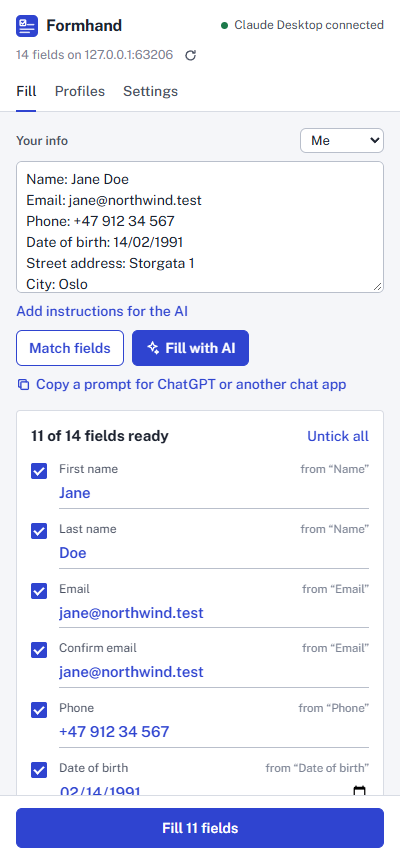
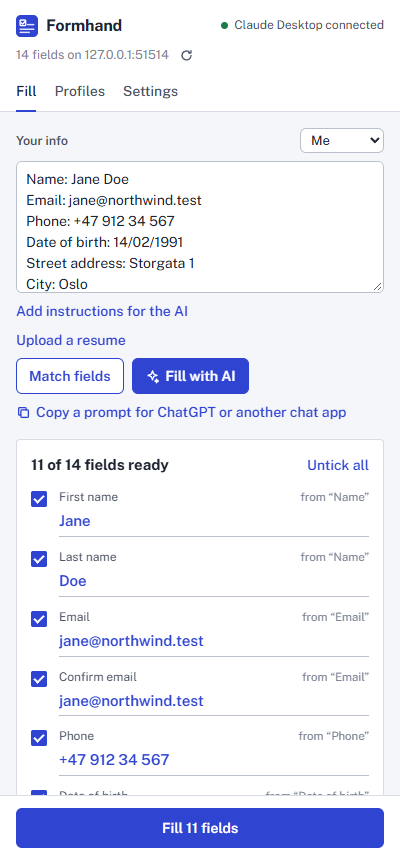
docs: resumes, remembered answers, privacy, tests and limits

Changed region(s): [[0.03, 0.3628, 0.96, 0.9372], [0.36, 0.0605, 0.42, 0.0907], [0.45, 0.0605, 0.48, 0.0907]]

diff --git a/README.md b/README.md
@@ -15,7 +15,8 @@ A browser extension that fills in web forms for you, from text you paste, from t
 - **Your AI app over MCP.** Claude Desktop, Claude Code, Cursor, VS Code and other MCP apps get three tools: `get_form`, `fill_form` and `undo_fill`. You say "fill the form in my browser with my details from cv.pdf" in the app, and the form in your active tab fills in, on that app's subscription with no API key.
 - **You stay in charge.** Every route except MCP shows a preview first, laid out like a filled-in paper form. You can edit any value or untick it. Filled fields are outlined on the page, and each fill can be undone. Formhand never submits a form.
 - **Some fields are never read:** passwords, card numbers, CVCs, one-time codes, and invisible "honeypot" fields that sites use to catch bots.
-- **Profiles** keep the details you use often ("Me", "Work") so you don't paste them every time.
+- **Profiles from your resume.** Pick a PDF, Word (.docx) or text resume. Formhand reads it in the browser, and your AI provider picks out your name, contact details, links and current job once. The profile keeps those as `Label: value` lines, which Match fields can use without AI, followed by the whole resume, so Fill with AI can answer open questions from it. Claude can also read a scanned PDF. You can still write profiles by hand ("Me", "Work").
+- **Remembers your answers.** After a fill, the answers your info didn't already have are kept and used on later forms, by Match fields and by the AI. Examples are a value you typed into the preview, or a notice period the AI worked out. Your info wins when the two differ, consent boxes are never kept, and undoing a fill takes its answers back out. You can see, forget or switch this off on the Profiles tab.
 
 <p>
   <img src="docs/panel-settings.png" width="280" alt="Settings: AI provider, model and key, the MCP pairing code with 'Connected to Claude Desktop', and what leaves your computer" />
@@ -38,8 +39,12 @@ A browser extension that fills in web forms for you, from text you paste, from t
 1. **Reading the form.** The content script walks the page, including open shadow roots. It lists each visible input, select and textarea with its label, worked out in this order: `aria-labelledby`, then `<label>`, `aria-label`, `title`, the text just before the field, and the table cell beside it. It also records the field's section (fieldset legend or heading), options, current value and limits. Radio buttons sharing a name become one field with options. Each field gets an id (`f1`, `f2`, ...) that stays the same across re-reads of the page.
 2. **Matching without AI** ([match.ts](packages/core/src/match.ts)). Each pasted key and each field is mapped to a concept such as `given-name`, `email` or `postal-code`, using the HTML autocomplete vocabulary plus synonyms ("surname", "zip", "mobile"). In "Company email" the last noun wins, so it maps to email. Keys and fields are then scored on concept and word overlap. Values that can't fit are penalised: "Jane" won't go into an email box, and "Mars" won't go into a country list. Each field is filled at most once, best score first. A full name is split over first and last name fields (and the reverse), "Confirm email" reuses the email, "USA" picks "United States", and "14/02/1991" becomes `1991-02-14`.
 3. **Asking an AI** ([prompt.ts](packages/core/src/prompt.ts)). One prompt is shared by the API route and the chat route. The model gets a compact JSON line per field and must answer `{"fills":[{"id","value"}],"notes"}`. Claude is called through the official SDK with a JSON-schema reply, low effort and Anthropic's default refusal fallback. Other providers get a JSON-schema `response_format`, and Formhand retries without it on servers that don't support one. The prompt tells the model that page text is data, not instructions, and never to invent personal details.
-4. **Filling** ([fill.ts](packages/extension/src/lib/dom/fill.ts)). Values are set through the element prototype's native setter, followed by `input` and `change` events. That is what makes React, Vue and similar libraries register the change. A unit test fills a real React form and checks its state, and the end-to-end tests do the same in Chromium and Firefox. Checkboxes and radios are clicked. If the browser rejects a value, as with "lots" in a number field, the old value goes back and the reason is reported.
-5. **The MCP bridge** ([bridge.ts](packages/mcp/src/bridge.ts), [bridge-client.ts](packages/extension/src/lib/bridge-client.ts)). Your AI app starts `formhand-mcp` as a stdio MCP server. The helper also listens on `127.0.0.1`, using the first free port from 17345 to 17349, so several AI apps can run at once. The extension's background script connects to every helper it finds.
+4. **Resumes and remembered answers** ([resume.ts](packages/extension/src/lib/resume.ts), [memory.ts](packages/core/src/memory.ts)).
+   - **Reading a resume:** PDFs are read with Mozilla's pdf.js, loaded only when you pick one, and Word files by unzipping `word/document.xml`. The text goes to your provider once, with its own prompt and JSON schema, to pick out the facts forms ask for. A PDF with no text layer goes to Claude as the file itself; other providers can't read scans.
+   - **What is remembered:** only answers that didn't come straight from your info: values you edited in the preview, AI and chat-app answers, and remembered answers used again (their date is refreshed). Long answers over 500 characters (cover letters) and consent boxes are skipped. A newer answer to the same question replaces the older one, and at most 200 are kept.
+   - **How they are used:** Match fields uses remembered answers only for fields your info left empty. The AI gets them as a separate block after your info, marked as earlier answers that your info overrides, and as data from other websites.
+5. **Filling** ([fill.ts](packages/extension/src/lib/dom/fill.ts)). Values are set through the element prototype's native setter, followed by `input` and `change` events. That is what makes React, Vue and similar libraries register the change. A unit test fills a real React form and checks its state, and the end-to-end tests do the same in Chromium and Firefox. Checkboxes and radios are clicked. If the browser rejects a value, as with "lots" in a number field, the old value goes back and the reason is reported.
+6. **The MCP bridge** ([bridge.ts](packages/mcp/src/bridge.ts), [bridge-client.ts](packages/extension/src/lib/bridge-client.ts)). Your AI app starts `formhand-mcp` as a stdio MCP server. The helper also listens on `127.0.0.1`, using the first free port from 17345 to 17349, so several AI apps can run at once. The extension's background script connects to every helper it finds.
    - **Security:** web pages are refused at the handshake by their Origin header, and the first message must carry the pairing code, which is compared in constant time.
    - **Keeping Chrome awake:** pings keep Chrome's service worker alive while a helper is connected, and an alarm looks for new helpers every 30 seconds.
    - **More than one browser:** requests go to the browser you focused last.
@@ -48,7 +53,7 @@ A browser extension that fills in web forms for you, from text you paste, from t
 
 | Package | What's in it |
 | --- | --- |
-| [`packages/core`](packages/core/src) | Pure TypeScript shared by the other two: field types, paste parsing, concept matching, option and date normalization, the AI prompt and reply format, and the bridge protocol. No DOM, no browser APIs. |
+| [`packages/core`](packages/core/src) | Pure TypeScript shared by the other two: field types, paste parsing, concept matching, option and date normalization, the AI prompts and reply formats (fills and resumes), remembered answers, and the bridge protocol. No DOM, no browser APIs. |
 | [`packages/extension`](packages/extension/src) | The WXT extension. `entrypoints/content.ts` reads and fills pages, through [`lib/dom/`](packages/extension/src/lib/dom). `entrypoints/background.ts` runs the bridge client and opens the panel. `entrypoints/sidepanel` holds the React UI in [`ui/`](packages/extension/src/ui), and [`lib/ai/`](packages/extension/src/lib/ai) holds the providers. |
 | [`packages/mcp`](packages/mcp/src) | The local helper: the MCP server and its tools ([server.ts](packages/mcp/src/server.ts)), the WebSocket bridge, the pairing code, and the `setup` command. |
 
@@ -68,21 +73,22 @@ Values are always strings. Selects and radios take an option label ("Norway"; al
 
 Formhand has no server, no account and no telemetry.
 
-- **Stays in your browser:** profiles, pasted text and API keys, in the extension's local storage.
-- **Fill with AI:** sends the page's field descriptions and your info to the provider you picked, and nothing else.
+- **Stays in your browser:** profiles, pasted text, remembered answers and API keys, in the extension's local storage.
+- **Fill with AI:** sends the page's field descriptions, your info and your remembered answers to the provider you picked, and nothing else.
+- **Resumes:** read in the browser. The text is sent once to your provider to pick out your details; a scanned PDF is sent as the file, to Claude only. The file itself isn't kept.
 - **MCP:** the helper only listens on `127.0.0.1` and only talks to the paired extension.
 - **Never read:** passwords, payment cards and one-time codes.
 
 ## Tests
 
 ```
-npm test                  # 134 unit tests: core 63, mcp 27, extension 44
-npm run test:e2e          # builds, then 9 Playwright tests against the real extension in Chromium
-npm run test:e2e:firefox  # builds for Firefox, then 11 tests in your installed Firefox
+npm test                  # 160 unit tests: core 78, mcp 27, extension 55
+npm run test:e2e          # builds, then 12 Playwright tests against the real extension in Chromium
+npm run test:e2e:firefox  # builds for Firefox, then 14 tests in your installed Firefox
 npm run typecheck
 ```
 
-- **Core:** paste formats, concept matching (including "Company email", "Name of company" and "First time here?"), name splitting and joining, aliases, dates, prompt shape.
+- **Core:** paste formats, concept matching (including "Company email", "Name of company" and "First time here?"), name splitting and joining, aliases, dates, prompt shape, which answers are remembered (and which never are), and reading the resume reply.
 - **MCP helper:**
   - Web origins are refused, and wrong or missing pairing codes are closed.
   - Requests and answers round-trip, including timeouts.
@@ -94,6 +100,7 @@ npm run typecheck
   - What is never listed (passwords, card fields, hidden fields).
   - Filling every control type, including a real React form, then undo.
   - The Claude request shape (structured output, fallback header, effort) and the OpenAI-compatible retry without a schema.
+  - Reading Word and text resumes, the resume request to each kind of provider, and a scanned PDF going only to Claude.
   - Provider error messages and the bridge client's reconnect and pairing behavior.
 - **End to end** ([e2e/](packages/extension/e2e)): loads the built extension into Chromium and fills a job application page through every route:
   - pasted text, with editing a value, unticking one, and undo;
@@ -102,8 +109,11 @@ npm run typecheck
   - a chat app reply;
   - the real `formhand-mcp` process started over stdio the way an AI app starts it;
   - a wrong pairing code;
-  - a second copy of the content script injected into an open tab, which must take over without filling twice.
-- **End to end in Firefox** ([e2e/firefox/](packages/extension/e2e/firefox)): Playwright can't load Firefox extensions, so these tests drive a real Firefox through geckodriver (Selenium), with Playwright only as the test runner. They run the same journeys, because Firefox differs where it matters: content scripts see the page through Xray wrappers, the background is a Manifest V2 page, and the clipboard and WebSocket paths are its own. The chat test pastes what Firefox really put on the clipboard. Two more tests click Formhand's button in the toolbar's Extensions menu to open and close the sidebar, and check the Alt+Shift+F shortcut. The panel is opened as a tab so the tests can read it; set `HEADED=1` to watch, or `FIREFOX_BIN` to pick a Firefox.
+  - a second copy of the content script injected into an open tab, which must take over without filling twice;
+  - a PDF resume read by pdf.js and turned into a profile that fills the form;
+  - an answer typed into the preview, filled again on a fresh copy of the form from memory, then forgotten;
+  - undoing a fill, which takes its answers back out.
+- **End to end in Firefox** ([e2e/firefox/](packages/extension/e2e/firefox)): Playwright can't load Firefox extensions, so these tests drive a real Firefox through geckodriver (Selenium), with Playwright only as the test runner. They run the same journeys, including the resume and remembered answers, because Firefox differs where it matters: content scripts see the page through Xray wrappers, the background is a Manifest V2 page, and the clipboard and WebSocket paths are its own. The chat test pastes what Firefox really put on the clipboard. Two more tests click Formhand's button in the toolbar's Extensions menu to open and close the sidebar, and check the Alt+Shift+F shortcut. The panel is opened as a tab so the tests can read it; set `HEADED=1` to watch, or `FIREFOX_BIN` to pick a Firefox.
 
 CI ([.github/workflows/ci.yml](.github/workflows/ci.yml)) runs the type check, the unit tests, builds for all three browsers, Mozilla's `web-ext lint` and the end-to-end tests in Chromium and Firefox.
 
@@ -111,10 +121,12 @@ CI ([.github/workflows/ci.yml](.github/workflows/ci.yml)) runs the type check, t
 
 - **Iframes aren't read.** Some embedded application forms (for example Greenhouse on a company site) live in a cross-origin iframe; open the form's own page instead.
 - **Custom widgets.** Native inputs, selects, radios and checkboxes fill reliably. Custom dropdowns built from `<div>`s (React Select, MUI Autocomplete), rich-text editors, multi-selects and file uploads are skipped or may not take the value.
-- **MCP fills without the side-panel preview.** The AI app says what it filled, the fields are outlined, and `undo_fill` or the panel's undo puts them back.
+- **MCP fills without the side-panel preview.** The AI app says what it filled, the fields are outlined, and `undo_fill` or the panel's undo puts them back. Because there is no preview to approve, MCP fills aren't remembered.
+- **Resumes:** old `.doc` files aren't read (save as .docx or PDF), only the first 20 pages of a PDF are, and scanned PDFs need Claude. Picking out details needs an AI provider; without one, the profile is the resume's text.
+- **Remembered answers stay in one browser.** They aren't synced, and an answer to "the same question" is matched by its wording, so differently worded questions are only connected by the AI.
 - **ChatGPT can't use the MCP route.** ChatGPT only connects to remote MCP servers, so it can't reach the local helper. Use the chat-app route or an OpenAI key instead.
 - **API keys are stored unencrypted** in the extension's local storage, as with most extensions. Anyone with access to your browser profile could read them.
-- **Firefox keeps Formhand only until it restarts**, until the add-on is signed by Mozilla (listed on addons.mozilla.org or signed for self-distribution). `web-ext lint` reports no errors and two warnings, for `innerHTML` inside React DOM's own code.
+- **Firefox keeps Formhand only until it restarts**, until the add-on is signed by Mozilla (listed on addons.mozilla.org or signed for self-distribution). `web-ext lint` reports no errors and four warnings: `innerHTML` inside React DOM's own code, and pdf.js loading its worker with `import()`.
 - **Ambiguous dates** like 03/04/1990 follow your browser's language: month first only for en-US.
 
 ## Deliberately left out
